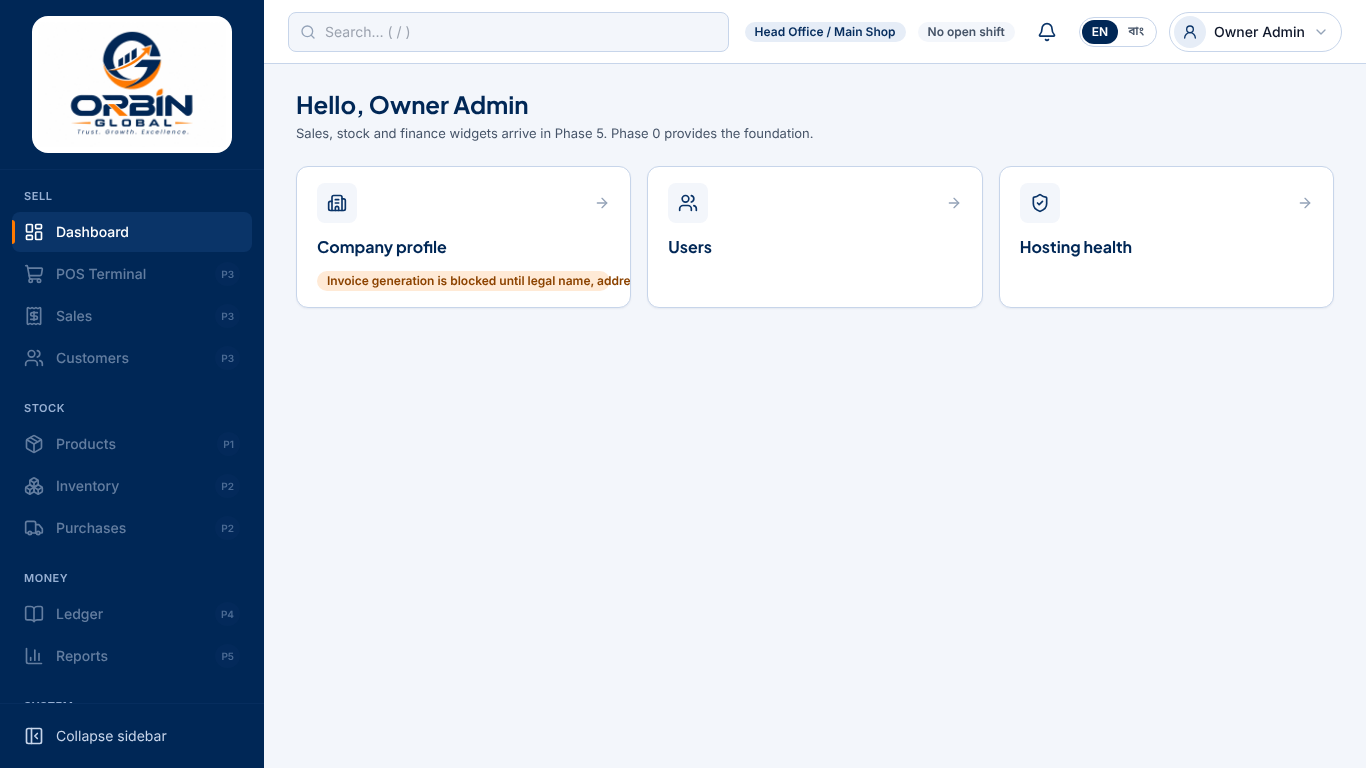
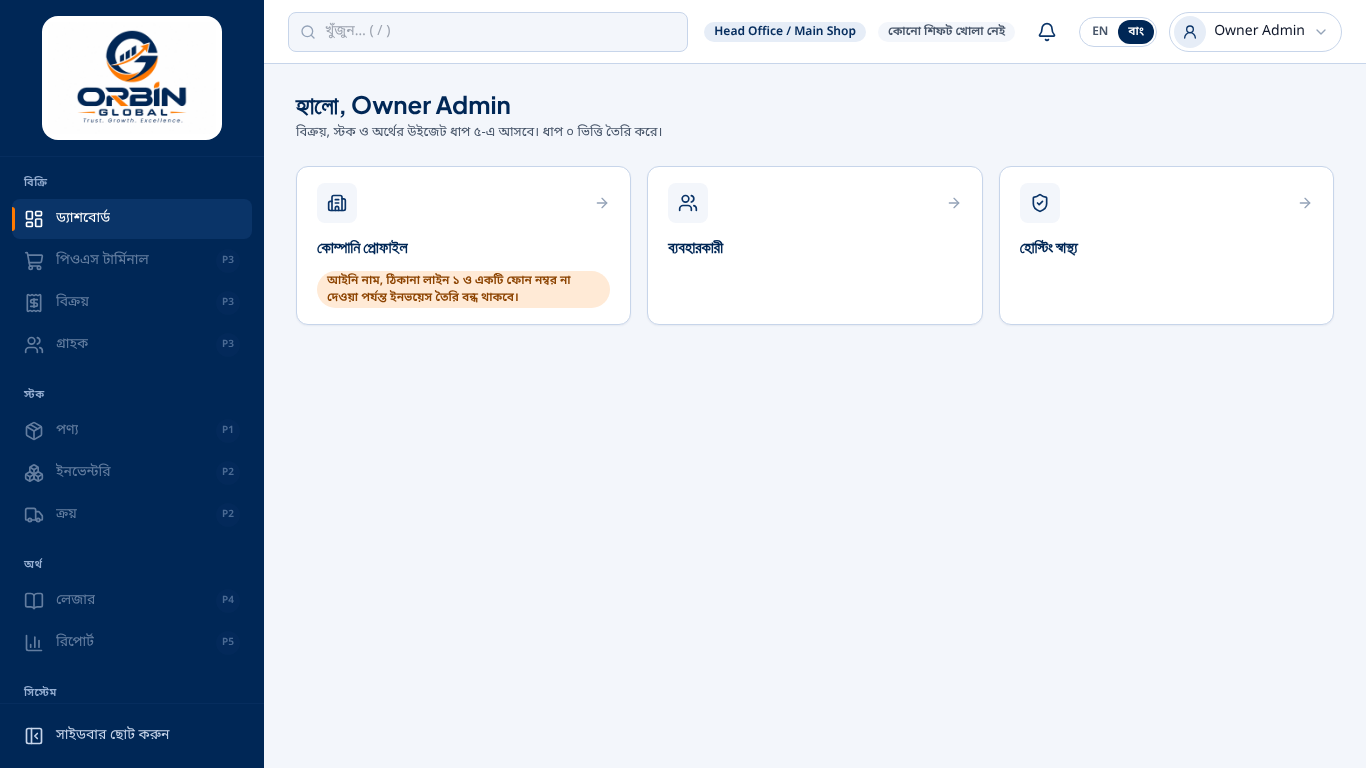
fix(frontend): wrap the dashboard notice inside its card
The orange "invoice generation is blocked" notice ran past the card edge. It now wraps.
Recaptured the dashboard screenshots.

Claude-Session: https://claude.ai/code/session_01Qrvjg6y4xPZa1eE9KWPZTV

diff --git a/frontend/src/features/dashboard/DashboardPage.tsx b/frontend/src/features/dashboard/DashboardPage.tsx
@@ -34,7 +34,7 @@ export function DashboardPage() {
                     <ArrowRight className="h-4 w-4 text-ink-subtle transition-transform duration-base group-hover:translate-x-1 motion-reduce:transform-none" aria-hidden="true" />
                   </div>
                   <span className="font-heading text-base font-bold text-navy-900">{l.label}</span>
-                  {l.badge && <Badge tone={l.ok ? 'success' : 'orange'}>{l.badge}</Badge>}
+                  {l.badge && <Badge tone={l.ok ? 'success' : 'orange'} className="self-start whitespace-normal rounded-input text-left leading-snug">{l.badge}</Badge>}
                 </CardBody>
               </Card>
             </Link>
